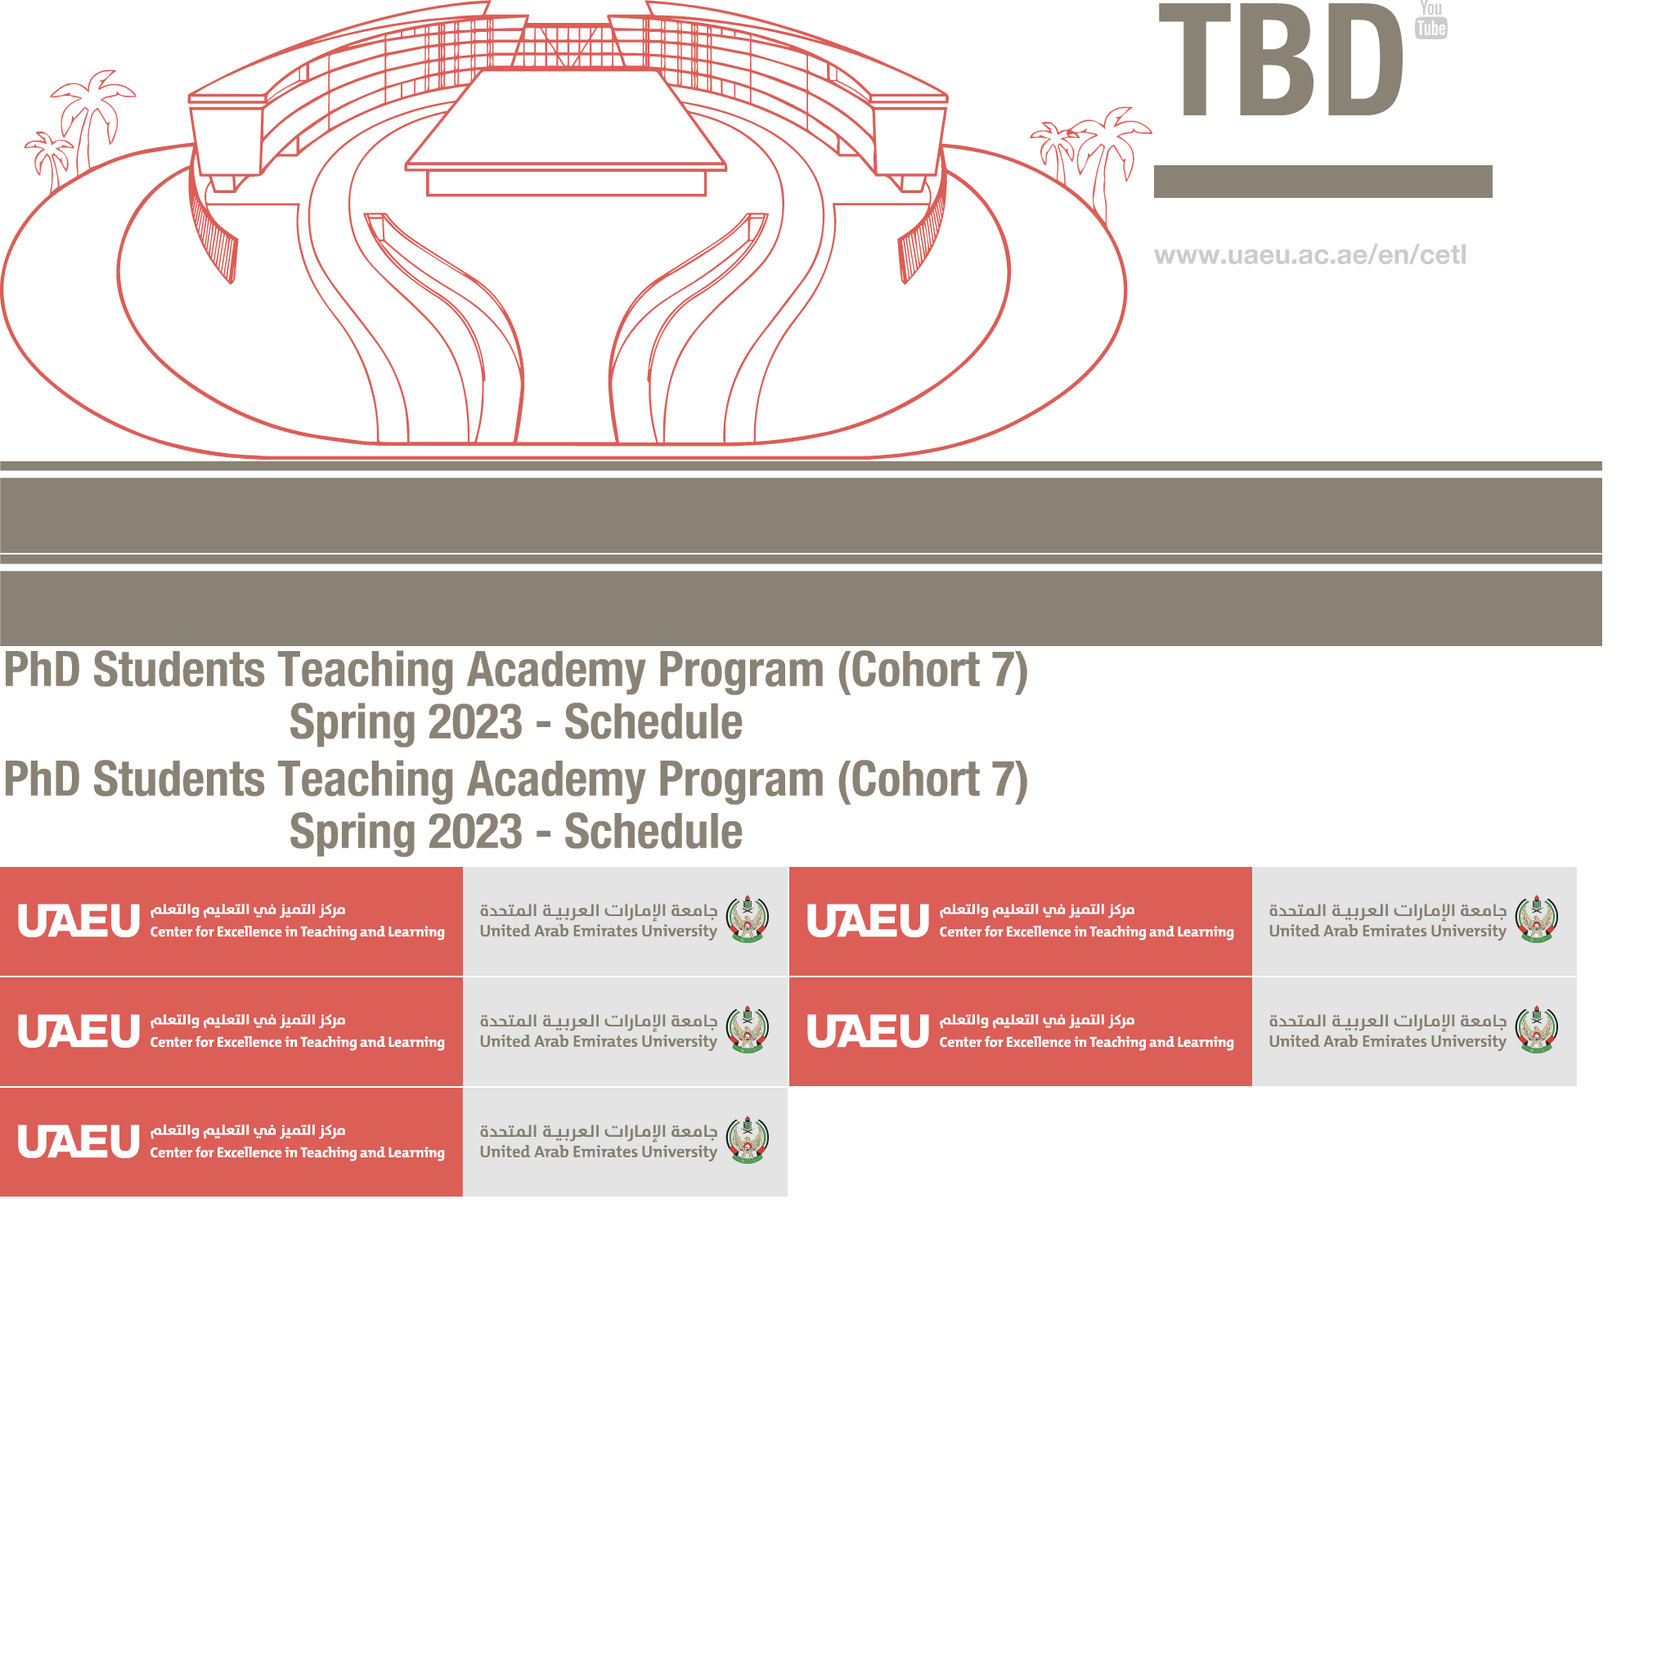
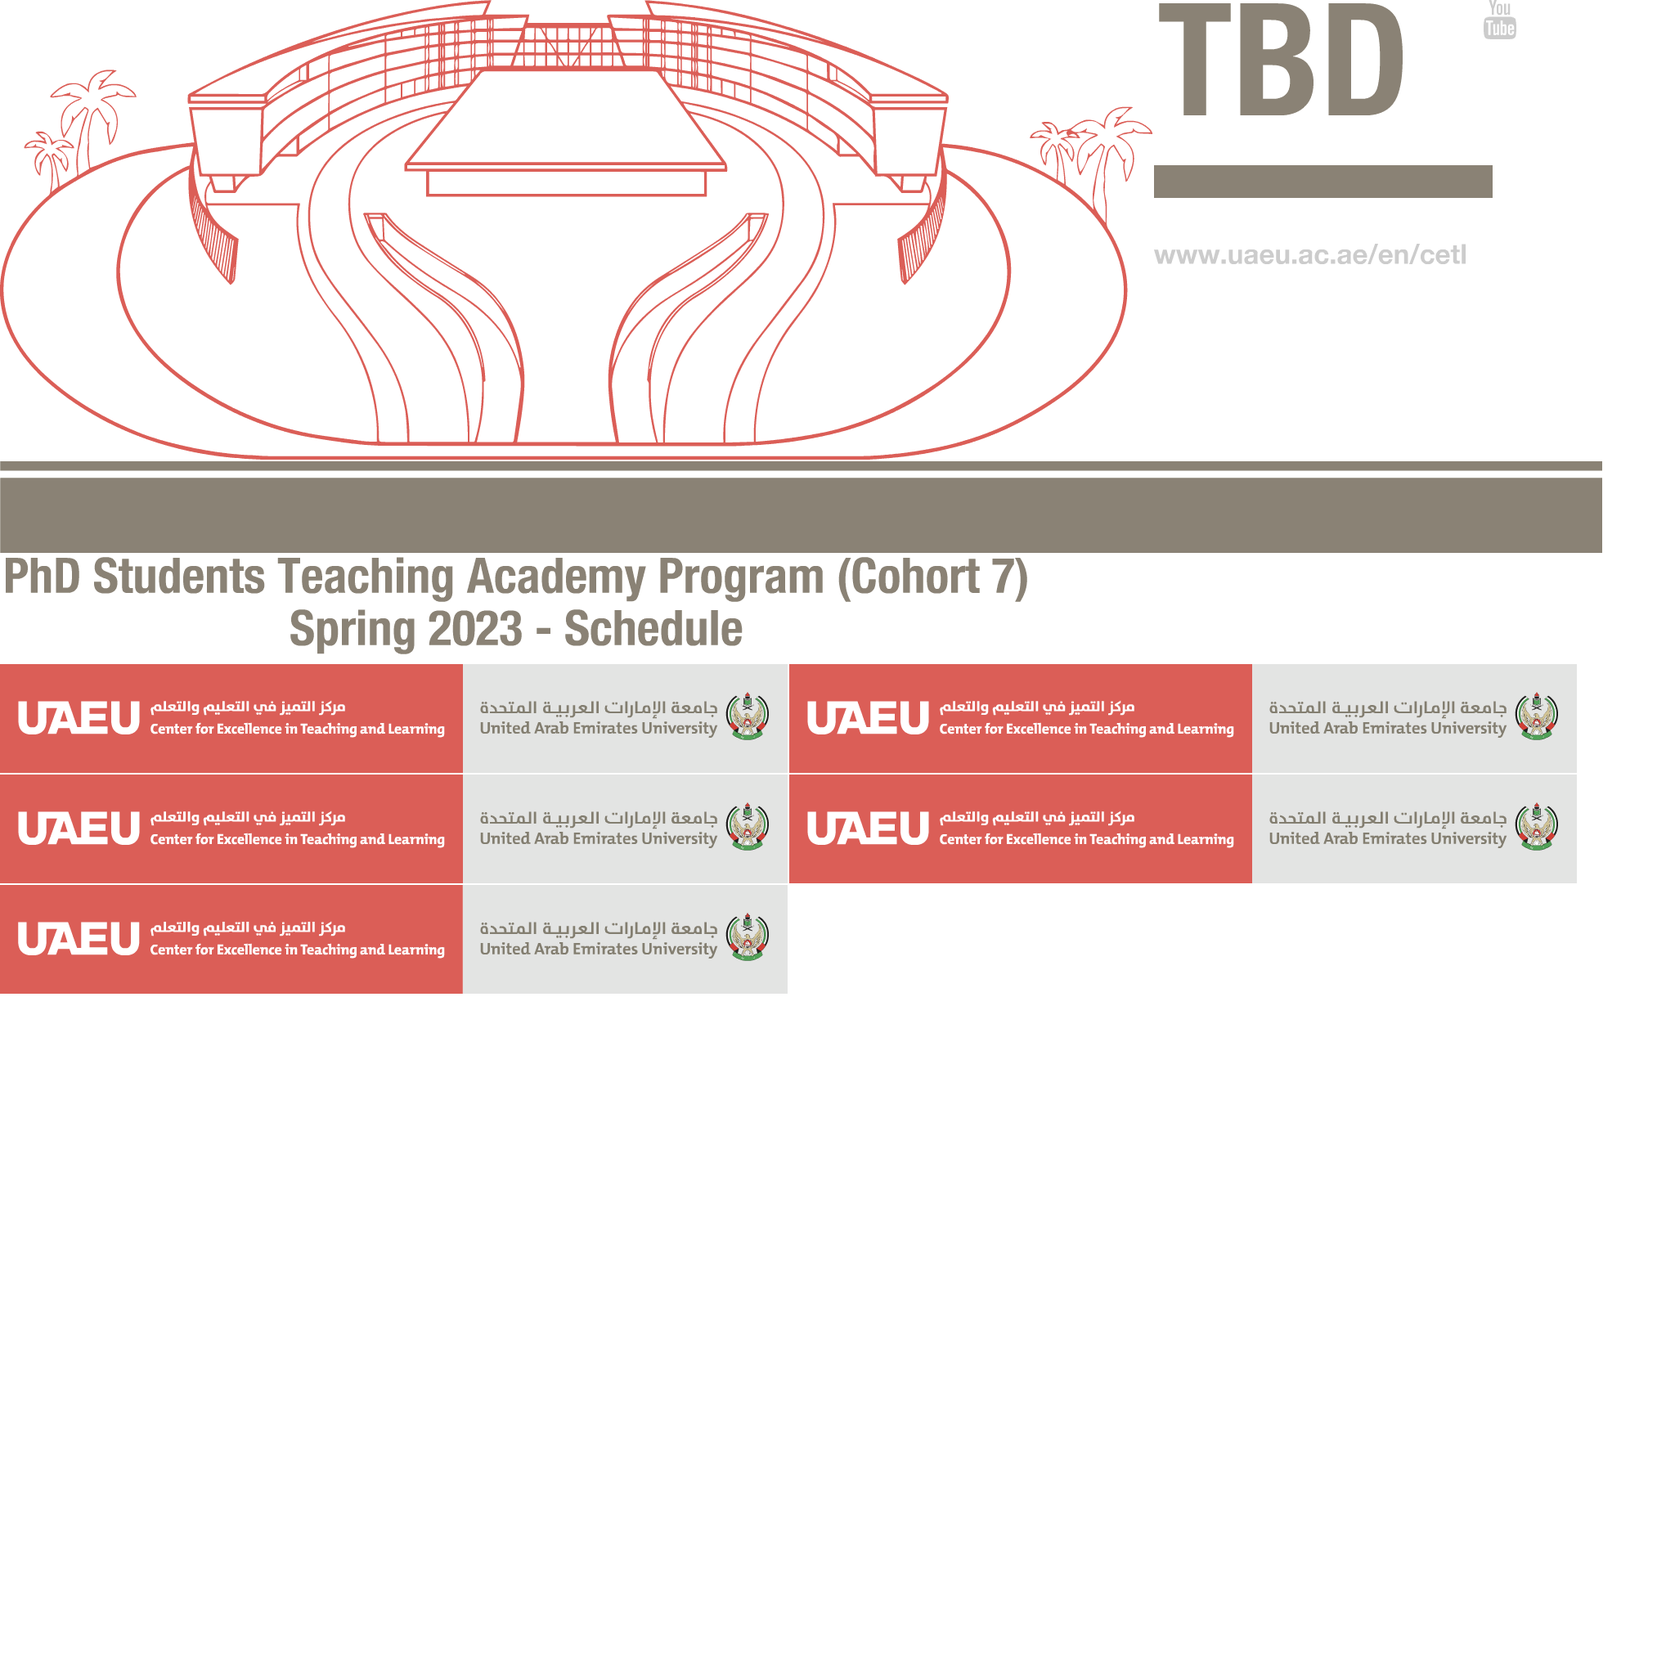
update

Changed region(s): [[0.0, 0.3125, 0.9688, 0.7188], [0.8438, 0.0, 0.9062, 0.0312]]

diff --git a/phd/index.js b/phd/index.js
@@ -4,7 +4,7 @@ var p; // shortcut to reference prototypes
 var lib={};var ss={};var img={};
 lib.ssMetadata = [
 		{name:"index_atlas_1", frames: [[0,0,1958,1445],[0,1447,1409,562]]},
-		{name:"index_atlas_2", frames: [[1794,244,40,48],[1827,0,40,48],[1730,0,40,48],[1772,0,40,48],[1411,0,317,200],[0,1060,963,133],[965,1060,963,133],[0,1195,963,133],[965,1195,963,133],[0,1330,963,133],[1411,244,381,25],[1411,271,381,25],[1411,298,381,25],[1411,325,381,25],[1411,202,414,40],[0,792,1263,132],[0,564,1959,112],[0,926,1263,132],[0,678,1959,112],[0,0,1409,562]]}
+		{name:"index_atlas_2", frames: [[1730,0,40,48],[1772,0,40,48],[1814,0,40,48],[1856,0,40,48],[1411,0,317,200],[0,812,963,133],[965,812,963,133],[0,947,963,133],[965,947,963,133],[0,1082,963,133],[1411,244,381,25],[1411,271,381,25],[1411,298,381,25],[1411,325,381,25],[1411,202,414,40],[0,678,1263,132],[0,564,1959,112],[0,0,1409,562]]}
 ];
 
 
@@ -28,126 +28,112 @@ lib.ssMetadata = [
 
 
 
-(lib.CachedBmp_27 = function() {
+(lib.CachedBmp_24 = function() {
 	this.initialize(ss["index_atlas_2"]);
 	this.gotoAndStop(0);
 }).prototype = p = new cjs.Sprite();
 
 
 
-(lib.CachedBmp_26 = function() {
+(lib.CachedBmp_23 = function() {
 	this.initialize(ss["index_atlas_2"]);
 	this.gotoAndStop(1);
 }).prototype = p = new cjs.Sprite();
 
 
 
-(lib.CachedBmp_25 = function() {
+(lib.CachedBmp_22 = function() {
 	this.initialize(ss["index_atlas_2"]);
 	this.gotoAndStop(2);
 }).prototype = p = new cjs.Sprite();
 
 
 
-(lib.CachedBmp_24 = function() {
+(lib.CachedBmp_21 = function() {
 	this.initialize(ss["index_atlas_2"]);
 	this.gotoAndStop(3);
 }).prototype = p = new cjs.Sprite();
 
 
 
-(lib.CachedBmp_23 = function() {
+(lib.CachedBmp_20 = function() {
 	this.initialize(ss["index_atlas_2"]);
 	this.gotoAndStop(4);
 }).prototype = p = new cjs.Sprite();
 
 
 
-(lib.CachedBmp_22 = function() {
+(lib.CachedBmp_19 = function() {
 	this.initialize(ss["index_atlas_2"]);
 	this.gotoAndStop(5);
 }).prototype = p = new cjs.Sprite();
 
 
 
-(lib.CachedBmp_21 = function() {
+(lib.CachedBmp_18 = function() {
 	this.initialize(ss["index_atlas_2"]);
 	this.gotoAndStop(6);
 }).prototype = p = new cjs.Sprite();
 
 
 
-(lib.CachedBmp_20 = function() {
+(lib.CachedBmp_17 = function() {
 	this.initialize(ss["index_atlas_2"]);
 	this.gotoAndStop(7);
 }).prototype = p = new cjs.Sprite();
 
 
 
-(lib.CachedBmp_19 = function() {
+(lib.CachedBmp_16 = function() {
 	this.initialize(ss["index_atlas_2"]);
 	this.gotoAndStop(8);
 }).prototype = p = new cjs.Sprite();
 
 
 
-(lib.CachedBmp_18 = function() {
+(lib.CachedBmp_15 = function() {
 	this.initialize(ss["index_atlas_2"]);
 	this.gotoAndStop(9);
 }).prototype = p = new cjs.Sprite();
 
 
 
-(lib.CachedBmp_16 = function() {
+(lib.CachedBmp_13 = function() {
 	this.initialize(ss["index_atlas_2"]);
 	this.gotoAndStop(10);
 }).prototype = p = new cjs.Sprite();
 
 
 
-(lib.CachedBmp_14 = function() {
+(lib.CachedBmp_11 = function() {
 	this.initialize(ss["index_atlas_2"]);
 	this.gotoAndStop(11);
 }).prototype = p = new cjs.Sprite();
 
 
 
-(lib.CachedBmp_12 = function() {
+(lib.CachedBmp_9 = function() {
 	this.initialize(ss["index_atlas_2"]);
 	this.gotoAndStop(12);
 }).prototype = p = new cjs.Sprite();
 
 
 
-(lib.CachedBmp_10 = function() {
+(lib.CachedBmp_7 = function() {
 	this.initialize(ss["index_atlas_2"]);
 	this.gotoAndStop(13);
 }).prototype = p = new cjs.Sprite();
 
 
 
-(lib.CachedBmp_15 = function() {
+(lib.CachedBmp_12 = function() {
 	this.initialize(ss["index_atlas_2"]);
 	this.gotoAndStop(14);
 }).prototype = p = new cjs.Sprite();
 
 
 
-(lib.CachedBmp_7 = function() {
-	this.initialize(ss["index_atlas_2"]);
-	this.gotoAndStop(15);
-}).prototype = p = new cjs.Sprite();
-
-
-
-(lib.CachedBmp_6 = function() {
-	this.initialize(ss["index_atlas_2"]);
-	this.gotoAndStop(16);
-}).prototype = p = new cjs.Sprite();
-
-
-
-(lib.CachedBmp_8 = function() {
+(lib.CachedBmp_5 = function() {
 	this.initialize(ss["index_atlas_1"]);
 	this.gotoAndStop(0);
 }).prototype = p = new cjs.Sprite();
@@ -156,14 +142,14 @@ lib.ssMetadata = [
 
 (lib.CachedBmp_4 = function() {
 	this.initialize(ss["index_atlas_2"]);
-	this.gotoAndStop(17);
+	this.gotoAndStop(15);
 }).prototype = p = new cjs.Sprite();
 
 
 
 (lib.CachedBmp_3 = function() {
 	this.initialize(ss["index_atlas_2"]);
-	this.gotoAndStop(18);
+	this.gotoAndStop(16);
 }).prototype = p = new cjs.Sprite();
 
 
@@ -175,9 +161,9 @@ lib.ssMetadata = [
 
 
 
-(lib.CachedBmp_17 = function() {
+(lib.CachedBmp_14 = function() {
 	this.initialize(ss["index_atlas_2"]);
-	this.gotoAndStop(19);
+	this.gotoAndStop(17);
 }).prototype = p = new cjs.Sprite();
 // helper functions:
 
@@ -210,16 +196,16 @@ if (reversed == null) { reversed = false; }
 	cjs.MovieClip.apply(this,[props]);
 
 	// Layer_1
-	this.instance = new lib.CachedBmp_24();
+	this.instance = new lib.CachedBmp_21();
 	this.instance.setTransform(0,0,0.5,0.5);
 
-	this.instance_1 = new lib.CachedBmp_25();
+	this.instance_1 = new lib.CachedBmp_22();
 	this.instance_1.setTransform(0,0,0.5,0.5);
 
-	this.instance_2 = new lib.CachedBmp_26();
+	this.instance_2 = new lib.CachedBmp_23();
 	this.instance_2.setTransform(0,0,0.5,0.5);
 
-	this.instance_3 = new lib.CachedBmp_27();
+	this.instance_3 = new lib.CachedBmp_24();
 	this.instance_3.setTransform(0,0,0.5,0.5);
 
 	this.timeline.addTween(cjs.Tween.get({}).to({state:[{t:this.instance}]}).to({state:[{t:this.instance_1}]},1).to({state:[{t:this.instance_2}]},1).to({state:[{t:this.instance_3}]},1).wait(1));
@@ -270,7 +256,7 @@ if (reversed == null) { reversed = false; }
 	cjs.MovieClip.apply(this,[props]);
 
 	// Layer_1
-	this.instance = new lib.CachedBmp_23();
+	this.instance = new lib.CachedBmp_20();
 	this.instance.setTransform(0,0,0.5,0.5);
 
 	this.timeline.addTween(cjs.Tween.get(this.instance).wait(1));
@@ -315,7 +301,7 @@ if (reversed == null) { reversed = false; }
 	cjs.MovieClip.apply(this,[props]);
 
 	// Layer_1
-	this.instance = new lib.CachedBmp_17();
+	this.instance = new lib.CachedBmp_14();
 	this.instance.setTransform(-352.15,-140.35,0.5,0.5);
 
 	this.timeline.addTween(cjs.Tween.get(this.instance).wait(1));
@@ -401,19 +387,19 @@ if (reversed == null) { reversed = false; }
 	cjs.MovieClip.apply(this,[props]);
 
 	// Layer_1
-	this.instance = new lib.CachedBmp_10();
+	this.instance = new lib.CachedBmp_7();
 	this.instance.setTransform(7.5,2.7,0.5,0.5);
 
-	this.instance_1 = new lib.CachedBmp_15();
+	this.instance_1 = new lib.CachedBmp_12();
 	this.instance_1.setTransform(0,0,0.5,0.5);
 
-	this.instance_2 = new lib.CachedBmp_12();
+	this.instance_2 = new lib.CachedBmp_9();
 	this.instance_2.setTransform(7.5,2.8,0.5,0.5);
 
-	this.instance_3 = new lib.CachedBmp_14();
+	this.instance_3 = new lib.CachedBmp_11();
 	this.instance_3.setTransform(7.5,2.7,0.5,0.5);
 
-	this.instance_4 = new lib.CachedBmp_16();
+	this.instance_4 = new lib.CachedBmp_13();
 	this.instance_4.setTransform(7.5,2.7,0.5,0.5);
 
 	this.timeline.addTween(cjs.Tween.get({}).to({state:[{t:this.instance_1},{t:this.instance}]}).to({state:[{t:this.instance_1},{t:this.instance_2}]},1).to({state:[{t:this.instance_1},{t:this.instance_3}]},1).to({state:[{t:this.instance_1},{t:this.instance_4}]},1).wait(1));
@@ -464,7 +450,7 @@ if (reversed == null) { reversed = false; }
 	this.timeline.addTween(cjs.Tween.get(this.instance).to({x:257.15,y:1.55},49).wait(1));
 
 	// Layer_1
-	this.instance_1 = new lib.CachedBmp_22();
+	this.instance_1 = new lib.CachedBmp_19();
 	this.instance_1.setTransform(-195.85,-26.95,0.4069,0.4069);
 
 	this.timeline.addTween(cjs.Tween.get(this.instance_1).wait(50));
@@ -492,16 +478,16 @@ if (reversed == null) { reversed = false; }
 	this.timeline.addTween(cjs.Tween.get(this.instance).wait(4));
 
 	// Layer_1
-	this.instance_1 = new lib.CachedBmp_18();
+	this.instance_1 = new lib.CachedBmp_15();
 	this.instance_1.setTransform(-195.85,-26.95,0.4069,0.4069);
 
-	this.instance_2 = new lib.CachedBmp_19();
+	this.instance_2 = new lib.CachedBmp_16();
 	this.instance_2.setTransform(-195.85,-26.95,0.4069,0.4069);
 
-	this.instance_3 = new lib.CachedBmp_20();
+	this.instance_3 = new lib.CachedBmp_17();
 	this.instance_3.setTransform(-195.85,-26.95,0.4069,0.4069);
 
-	this.instance_4 = new lib.CachedBmp_21();
+	this.instance_4 = new lib.CachedBmp_18();
 	this.instance_4.setTransform(-195.85,-26.95,0.4069,0.4069);
 
 	this.timeline.addTween(cjs.Tween.get({}).to({state:[{t:this.instance_1}]}).to({state:[{t:this.instance_2}]},1).to({state:[{t:this.instance_3}]},1).to({state:[{t:this.instance_4}]},1).wait(1));
@@ -621,7 +607,7 @@ if (reversed == null) { reversed = false; }
 	this.timeline.addTween(cjs.Tween.get(mask).to({graphics:mask_graphics_0,x:262.925,y:231.9}).wait(1).to({graphics:mask_graphics_1,x:265.4899,y:234.7256}).wait(1).to({graphics:mask_graphics_2,x:268.0547,y:237.5511}).wait(1).to({graphics:mask_graphics_3,x:270.6196,y:240.3766}).wait(1).to({graphics:mask_graphics_4,x:273.1844,y:243.2022}).wait(1).to({graphics:mask_graphics_5,x:275.7493,y:246.0277}).wait(1).to({graphics:mask_graphics_6,x:278.3141,y:248.8533}).wait(1).to({graphics:mask_graphics_7,x:280.879,y:251.6788}).wait(1).to({graphics:mask_graphics_8,x:283.4438,y:254.5044}).wait(1).to({graphics:mask_graphics_9,x:286.0087,y:257.3299}).wait(1).to({graphics:mask_graphics_10,x:288.5735,y:260.1554}).wait(1).to({graphics:mask_graphics_11,x:291.1384,y:262.981}).wait(1).to({graphics:mask_graphics_12,x:293.7032,y:265.8065}).wait(1).to({graphics:mask_graphics_13,x:296.2681,y:268.6321}).wait(1).to({graphics:mask_graphics_14,x:298.8329,y:271.4576}).wait(1).to({graphics:mask_graphics_15,x:301.3978,y:274.2832}).wait(1).to({graphics:mask_graphics_16,x:303.9627,y:277.1087}).wait(1).to({graphics:mask_graphics_17,x:306.5275,y:279.9343}).wait(1).to({graphics:mask_graphics_18,x:309.0924,y:282.7598}).wait(1).to({graphics:mask_graphics_19,x:311.6572,y:285.5854}).wait(1).to({graphics:mask_graphics_20,x:314.2221,y:288.4109}).wait(1).to({graphics:mask_graphics_21,x:316.7869,y:291.2365}).wait(1).to({graphics:mask_graphics_22,x:319.3518,y:294.062}).wait(1).to({graphics:mask_graphics_23,x:321.9166,y:296.8875}).wait(1).to({graphics:mask_graphics_24,x:324.4815,y:299.7131}).wait(1).to({graphics:mask_graphics_25,x:327.0463,y:302.5386}).wait(1).to({graphics:mask_graphics_26,x:329.6112,y:305.3642}).wait(1).to({graphics:mask_graphics_27,x:332.176,y:308.1897}).wait(1).to({graphics:mask_graphics_28,x:334.7409,y:311.0153}).wait(1).to({graphics:mask_graphics_29,x:337.3057,y:313.8408}).wait(1).to({graphics:mask_graphics_30,x:339.8706,y:316.6664}).wait(1).to({graphics:mask_graphics_31,x:342.4354,y:319.4919}).wait(1).to({graphics:mask_graphics_32,x:345.0003,y:322.3174}).wait(1).to({graphics:mask_graphics_33,x:347.5652,y:325.143}).wait(1).to({graphics:mask_graphics_34,x:350.13,y:327.9685}).wait(1).to({graphics:mask_graphics_35,x:352.6948,y:330.7941}).wait(1).to({graphics:mask_graphics_36,x:355.2597,y:333.6196}).wait(1).to({graphics:mask_graphics_37,x:357.8246,y:336.4452}).wait(1).to({graphics:mask_graphics_38,x:360.3894,y:339.2707}).wait(1).to({graphics:mask_graphics_39,x:362.9543,y:342.0963}).wait(1).to({graphics:mask_graphics_40,x:365.5191,y:344.9218}).wait(1).to({graphics:mask_graphics_41,x:368.084,y:347.7474}).wait(1).to({graphics:mask_graphics_42,x:370.6488,y:350.5729}).wait(1).to({graphics:mask_graphics_43,x:373.2137,y:353.3984}).wait(1).to({graphics:mask_graphics_44,x:375.7785,y:356.224}).wait(1).to({graphics:mask_graphics_45,x:378.3434,y:359.0495}).wait(1).to({graphics:mask_graphics_46,x:380.9082,y:361.8751}).wait(1).to({graphics:mask_graphics_47,x:383.4731,y:364.7006}).wait(1).to({graphics:mask_graphics_48,x:386.0379,y:367.5262}).wait(1).to({graphics:mask_graphics_49,x:388.6028,y:370.3517}).wait(1).to({graphics:mask_graphics_50,x:391.1677,y:373.1773}).wait(1).to({graphics:mask_graphics_51,x:393.7325,y:376.0028}).wait(1).to({graphics:mask_graphics_52,x:396.2974,y:378.8283}).wait(1).to({graphics:mask_graphics_53,x:398.8622,y:381.6539}).wait(1).to({graphics:mask_graphics_54,x:401.4271,y:384.4794}).wait(1).to({graphics:mask_graphics_55,x:403.9919,y:387.305}).wait(1).to({graphics:mask_graphics_56,x:406.5568,y:390.1305}).wait(1).to({graphics:mask_graphics_57,x:409.1216,y:392.9561}).wait(1).to({graphics:mask_graphics_58,x:411.6865,y:395.7816}).wait(1).to({graphics:mask_graphics_59,x:414.2513,y:398.6072}).wait(1).to({graphics:mask_graphics_60,x:416.8162,y:401.4327}).wait(1).to({graphics:mask_graphics_61,x:419.381,y:404.2582}).wait(1).to({graphics:mask_graphics_62,x:421.9459,y:407.0838}).wait(1).to({graphics:mask_graphics_63,x:424.5107,y:409.9093}).wait(1).to({graphics:mask_graphics_64,x:427.0756,y:412.7349}).wait(1).to({graphics:mask_graphics_65,x:429.6404,y:415.5604}).wait(1).to({graphics:mask_graphics_66,x:432.2053,y:418.386}).wait(1).to({graphics:mask_graphics_67,x:434.7701,y:421.2115}).wait(1).to({graphics:mask_graphics_68,x:437.335,y:424.0371}).wait(1).to({graphics:mask_graphics_69,x:439.8999,y:408.8749}).wait(1).to({graphics:mask_graphics_70,x:439.8999,y:408.8749}).wait(1).to({graphics:mask_graphics_71,x:439.8999,y:408.8749}).wait(1).to({graphics:mask_graphics_72,x:439.8999,y:408.8749}).wait(1).to({graphics:mask_graphics_73,x:439.8999,y:408.8749}).wait(1).to({graphics:mask_graphics_74,x:439.8999,y:408.8749}).wait(1).to({graphics:mask_graphics_75,x:439.8999,y:408.8749}).wait(1).to({graphics:mask_graphics_76,x:439.8999,y:408.8749}).wait(1).to({graphics:mask_graphics_77,x:439.8999,y:408.8749}).wait(1).to({graphics:mask_graphics_78,x:439.8999,y:408.8749}).wait(1).to({graphics:mask_graphics_79,x:439.8999,y:408.8749}).wait(1).to({graphics:mask_graphics_80,x:439.8999,y:408.8749}).wait(1).to({graphics:mask_graphics_81,x:439.8999,y:408.8749}).wait(1).to({graphics:mask_graphics_82,x:439.8999,y:408.8749}).wait(1).to({graphics:mask_graphics_83,x:439.8999,y:408.8749}).wait(1).to({graphics:mask_graphics_84,x:439.8999,y:408.8749}).wait(1).to({graphics:mask_graphics_85,x:439.8999,y:408.8749}).wait(1).to({graphics:mask_graphics_86,x:439.8999,y:408.8749}).wait(1).to({graphics:mask_graphics_87,x:439.8999,y:408.8749}).wait(1).to({graphics:mask_graphics_88,x:439.8999,y:408.8749}).wait(1).to({graphics:mask_graphics_89,x:439.8999,y:408.8749}).wait(11));
 
 	// Crescent_RED
-	this.instance = new lib.CachedBmp_17();
+	this.instance = new lib.CachedBmp_14();
 	this.instance.setTransform(159.8,309.65,0.5,0.5);
 
 	this.instance_1 = new lib.Symbol2();
@@ -648,16 +634,19 @@ if (reversed == null) { reversed = false; }
 	this.timeline.addTween(cjs.Tween.get(this.instance_2).wait(100));
 
 	// Layer_1
+	this.instance_3 = new lib.tbd();
+	this.instance_3.setTransform(512,654.9,0.4581,0.4581,0,0,0,79.4,50);
+
 	this.cetlweb2 = new lib.Symbol9();
 	this.cetlweb2.name = "cetlweb2";
 	this.cetlweb2.setTransform(512,64,1.2287,1.2287);
 	new cjs.ButtonHelper(this.cetlweb2, 0, 1, 2, false, new lib.Symbol9(), 3);
 
-	this.instance_3 = new lib.CachedBmp_8();
-	this.instance_3.setTransform(22.6,65.05,0.5,0.5);
+	this.instance_4 = new lib.CachedBmp_5();
+	this.instance_4.setTransform(22.6,65.05,0.5,0.5);
 
-	this.instance_4 = new lib.CachedBmp_4();
-	this.instance_4.setTransform(196.15,123.5,0.5,0.5);
+	this.instance_5 = new lib.CachedBmp_4();
+	this.instance_5.setTransform(196.15,123.5,0.5,0.5);
 
 	this.cetlweb = new lib.cetlweb();
 	this.cetlweb.name = "cetlweb";
@@ -684,19 +673,10 @@ if (reversed == null) { reversed = false; }
 	this.facebook.setTransform(867.05,765.45,1,1,0,0,0,5.5,10.6);
 	new cjs.ButtonHelper(this.facebook, 0, 1, 2, false, new lib.facebook(), 3);
 
-	this.instance_5 = new lib.CachedBmp_3();
-	this.instance_5.setTransform(22.35,731.35,0.5,0.5);
+	this.instance_6 = new lib.CachedBmp_3();
+	this.instance_6.setTransform(22.35,731.35,0.5,0.5);
 
-	this.instance_6 = new lib.tbd();
-	this.instance_6.setTransform(512,654.9,0.4581,0.4581,0,0,0,79.4,50);
-
-	this.instance_7 = new lib.CachedBmp_7();
-	this.instance_7.setTransform(196.15,123.5,0.5,0.5);
-
-	this.instance_8 = new lib.CachedBmp_6();
-	this.instance_8.setTransform(22.35,731.35,0.5,0.5);
-
-	this.timeline.addTween(cjs.Tween.get({}).to({state:[{t:this.instance_5},{t:this.facebook},{t:this.twitter},{t:this.linkedin},{t:this.youtube},{t:this.cetlweb},{t:this.instance_4},{t:this.instance_3},{t:this.cetlweb2}]}).to({state:[{t:this.instance_8},{t:this.facebook},{t:this.twitter},{t:this.linkedin},{t:this.youtube},{t:this.cetlweb},{t:this.instance_7},{t:this.instance_3},{t:this.cetlweb2},{t:this.instance_6}]},99).wait(1));
+	this.timeline.addTween(cjs.Tween.get({}).to({state:[{t:this.instance_6},{t:this.facebook},{t:this.twitter},{t:this.linkedin},{t:this.youtube},{t:this.cetlweb},{t:this.instance_5},{t:this.instance_4},{t:this.cetlweb2},{t:this.instance_3}]}).wait(100));
 
 	this.filterCacheList = [];
 	this.filterCacheList.push({instance: this.instance_1, startFrame:69, endFrame:69, x:-354, y:-142, w:709, h:285});
@@ -714,8 +694,8 @@ lib.properties = {
 	color: "#FFFFFF",
 	opacity: 1.00,
 	manifest: [
-		{src:"images/index_atlas_1.png?1669032391468", id:"index_atlas_1"},
-		{src:"images/index_atlas_2.png?1669032391468", id:"index_atlas_2"}
+		{src:"images/index_atlas_1.png?1669089806661", id:"index_atlas_1"},
+		{src:"images/index_atlas_2.png?1669089806662", id:"index_atlas_2"}
 	],
 	preloads: []
 };

diff --git a/phd/index.html b/phd/index.html
@@ -22,7 +22,7 @@
   }
 </style>
 <script src="https://code.createjs.com/1.0.0/createjs.min.js"></script>
-<script src="index.js?1669032391501"></script>
+<script src="index.js?1669089806697"></script>
 <script>
 var canvas, stage, exportRoot, anim_container, dom_overlay_container, fnStartAnimation;
 function init() {
